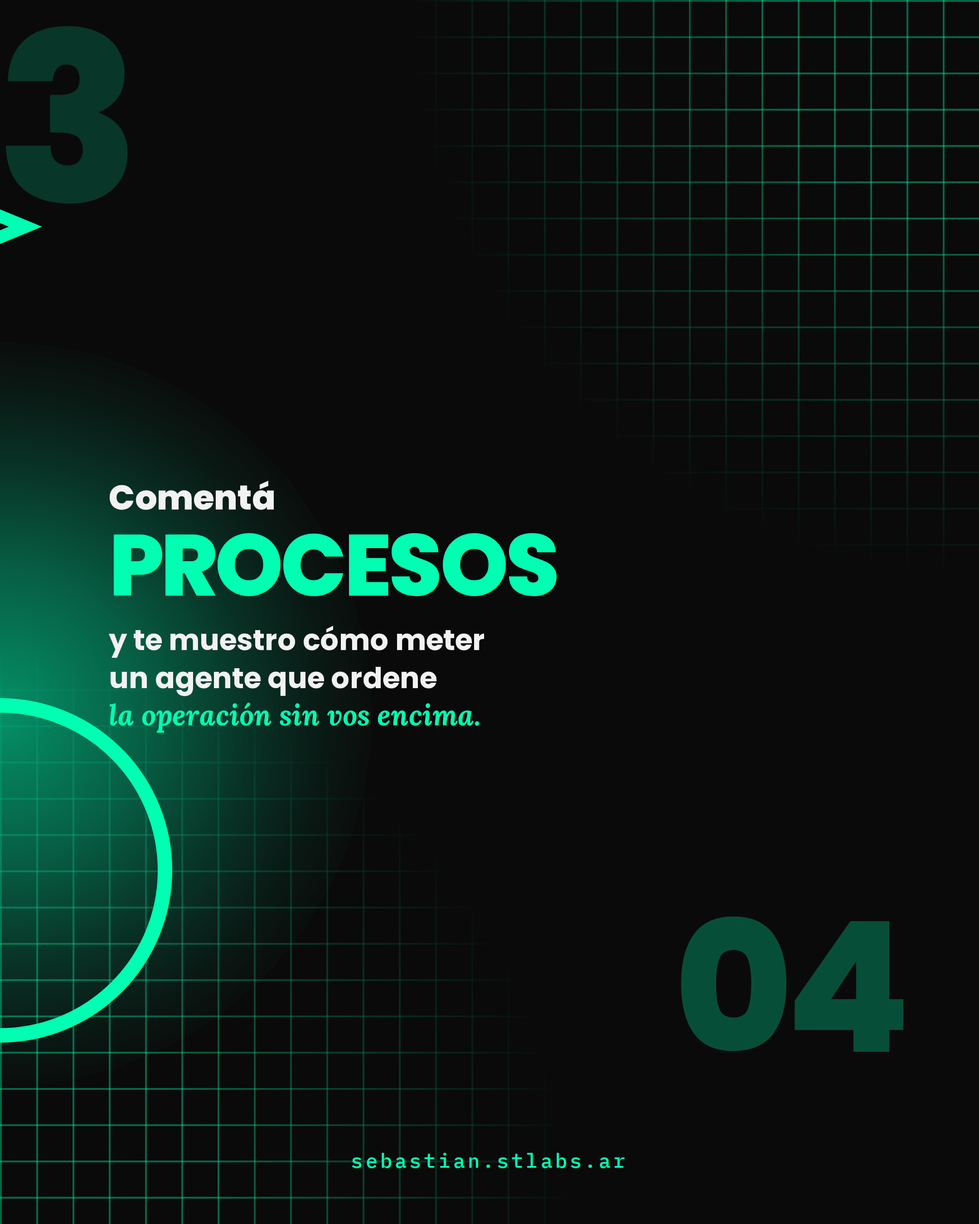
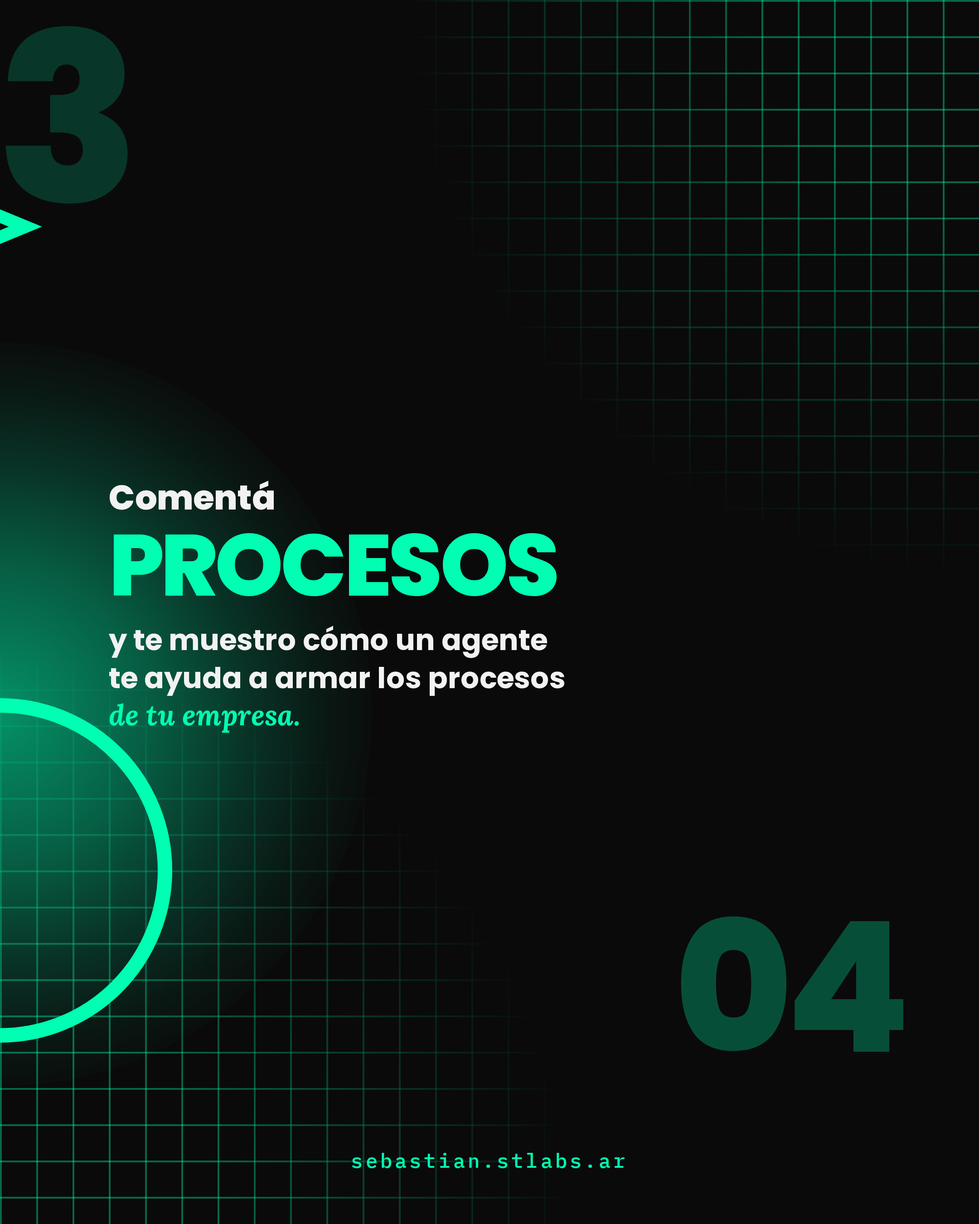
Agente = armar procesos: copy, skill y regla bloqueados
Reescribe el carrusel sin pitch de leads; fija el mensaje en la
skill STLabs, identidad, captions y regla de memoria.

Changed region(s): [[0.0931, 0.4978, 0.5894, 0.5911]]

diff --git a/builds/2026-08-16-frases-continuidad/carrusel-standalone.html b/builds/2026-08-16-frases-continuidad/carrusel-standalone.html
@@ -152,7 +152,7 @@ html, body { background:#000; }
   font-size:32px; line-height:1.3; color:#F2F2F2; max-width:720px;
 }
 </style></head>
-<body><div class="sheet"><section class="slide" data-id="01"><div class="tex"></div><div class="stain stain-out stain-hi" aria-hidden="true"></div><div class="seam-num seam-out seam-top" aria-hidden="true">01</div><div class="geo geo-circle geo-out" aria-hidden="true"></div><div class="geo geo-arrow geo-arrow-out" aria-hidden="true"><svg viewBox="0 0 200 80" width="200" height="80"><path d="M8 40 H130 M100 12 L168 40 L100 68" fill="none" stroke="#00FFB2" stroke-width="14" stroke-linecap="square" stroke-linejoin="miter"/></svg></div><div class="mid"><p class="kicker">Para dueños que no dan abasto</p><h1 class="display">TU EMPRESA<br>NECESITA<br>UN <span class="ac">AGENTE</span></h1><p class="punch">No otra persona.<br><span class="ac xl">Un sistema de procesos.</span></p></div><div class="firma">sebastian.stlabs.ar</div><div class="nav-arrow" aria-hidden="true"><svg viewBox="0 0 40 24" width="34" height="20"><path d="M2 12 H30 M22 4 L34 12 L22 20" fill="none" stroke="#00FFB2" stroke-width="2.4" stroke-linecap="round" stroke-linejoin="round"/></svg></div></section><section class="slide" data-id="02"><div class="tex"></div><div class="stain stain-in stain-hi" aria-hidden="true"></div><div class="stain stain-out stain-lo" aria-hidden="true"></div><div class="seam-num seam-in seam-top" aria-hidden="true">01</div>
-<div class="seam-num seam-out seam-bot" aria-hidden="true">02</div><div class="geo geo-circle geo-in" aria-hidden="true"></div><div class="geo geo-arrow geo-arrow-in" aria-hidden="true"><svg viewBox="0 0 200 80" width="200" height="80"><path d="M-40 40 H90 M60 12 L128 40 L60 68" fill="none" stroke="#00FFB2" stroke-width="14" stroke-linecap="square" stroke-linejoin="miter"/></svg></div><div class="geo geo-ring geo-out-mid" aria-hidden="true"></div><div class="geo geo-bar geo-bar-out" aria-hidden="true"></div><div class="mid mid-r"><h1 class="display">CORRE<br><span class="sm">CADA</span><br><span class="ac">PROCESO</span></h1><p class="punch soft">Detecta. Ejecuta. Escala.<br><span class="ac">Mientras vos liderás.</span></p></div><div class="firma">sebastian.stlabs.ar</div><div class="nav-arrow" aria-hidden="true"><svg viewBox="0 0 40 24" width="34" height="20"><path d="M2 12 H30 M22 4 L34 12 L22 20" fill="none" stroke="#00FFB2" stroke-width="2.4" stroke-linecap="round" stroke-linejoin="round"/></svg></div></section><section class="slide" data-id="03"><div class="tex"></div><div class="stain stain-in stain-lo" aria-hidden="true"></div><div class="stain stain-out stain-mid" aria-hidden="true"></div><div class="seam-num seam-in seam-bot" aria-hidden="true">02</div>
-<div class="seam-num seam-out seam-top" aria-hidden="true">03</div><div class="geo geo-ring geo-in-mid" aria-hidden="true"></div><div class="geo geo-bar geo-bar-in" aria-hidden="true"></div><div class="geo geo-circle geo-out geo-lo" aria-hidden="true"></div><div class="mid"><h1 class="display">SIN VOS<br><span class="sm">ENCIMA</span><br><span class="ac">24/7</span></h1><p class="punch">Un agente que corre<br>tus procesos.</p><p class="sub">Operación, seguimiento y CRM:<br>un solo flujo que no se traba.</p></div><div class="firma">sebastian.stlabs.ar</div><div class="nav-arrow" aria-hidden="true"><svg viewBox="0 0 40 24" width="34" height="20"><path d="M2 12 H30 M22 4 L34 12 L22 20" fill="none" stroke="#00FFB2" stroke-width="2.4" stroke-linecap="round" stroke-linejoin="round"/></svg></div></section><section class="slide" data-id="04"><div class="tex"></div><div class="stain stain-in stain-mid" aria-hidden="true"></div><div class="seam-num seam-in seam-top" aria-hidden="true">03</div>
-<div class="seam-num seam-solo seam-bot" aria-hidden="true">04</div><div class="geo geo-circle geo-in geo-lo" aria-hidden="true"></div><div class="geo geo-arrow geo-arrow-in" aria-hidden="true"><svg viewBox="0 0 200 80" width="200" height="80"><path d="M-40 40 H90 M60 12 L128 40 L60 68" fill="none" stroke="#00FFB2" stroke-width="14" stroke-linecap="square" stroke-linejoin="miter"/></svg></div><div class="mid mid-cta"><p class="cta-pre">Comentá</p><h1 class="cta-kw">PROCESOS</h1><p class="cta-mid">y te muestro cómo meter<br>un agente que ordene<br><span class="ac">la operación sin vos encima.</span></p></div><div class="firma">sebastian.stlabs.ar</div></section></div></body></html>
+<body><div class="sheet"><section class="slide" data-id="01"><div class="tex"></div><div class="stain stain-out stain-hi" aria-hidden="true"></div><div class="seam-num seam-out seam-top" aria-hidden="true">01</div><div class="geo geo-circle geo-out" aria-hidden="true"></div><div class="geo geo-arrow geo-arrow-out" aria-hidden="true"><svg viewBox="0 0 200 80" width="200" height="80"><path d="M8 40 H130 M100 12 L168 40 L100 68" fill="none" stroke="#00FFB2" stroke-width="14" stroke-linecap="square" stroke-linejoin="miter"/></svg></div><div class="mid"><p class="kicker">Para dueños que no dan abasto</p><h1 class="display">TU EMPRESA<br>NECESITA<br>UN <span class="ac">AGENTE</span></h1><p class="punch">No otra persona.<br><span class="ac xl">Uno que te ayude a armar procesos.</span></p></div><div class="firma">sebastian.stlabs.ar</div><div class="nav-arrow" aria-hidden="true"><svg viewBox="0 0 40 24" width="34" height="20"><path d="M2 12 H30 M22 4 L34 12 L22 20" fill="none" stroke="#00FFB2" stroke-width="2.4" stroke-linecap="round" stroke-linejoin="round"/></svg></div></section><section class="slide" data-id="02"><div class="tex"></div><div class="stain stain-in stain-hi" aria-hidden="true"></div><div class="stain stain-out stain-lo" aria-hidden="true"></div><div class="seam-num seam-in seam-top" aria-hidden="true">01</div>
+<div class="seam-num seam-out seam-bot" aria-hidden="true">02</div><div class="geo geo-circle geo-in" aria-hidden="true"></div><div class="geo geo-arrow geo-arrow-in" aria-hidden="true"><svg viewBox="0 0 200 80" width="200" height="80"><path d="M-40 40 H90 M60 12 L128 40 L60 68" fill="none" stroke="#00FFB2" stroke-width="14" stroke-linecap="square" stroke-linejoin="miter"/></svg></div><div class="geo geo-ring geo-out-mid" aria-hidden="true"></div><div class="geo geo-bar geo-bar-out" aria-hidden="true"></div><div class="mid mid-r"><h1 class="display">ARMÁ<br><span class="sm">PROCESOS</span><br><span class="ac">QUE ANDEN</span></h1><p class="punch soft">Diseñá. Documentá. Delegá.<br><span class="ac">El agente te guía paso a paso.</span></p></div><div class="firma">sebastian.stlabs.ar</div><div class="nav-arrow" aria-hidden="true"><svg viewBox="0 0 40 24" width="34" height="20"><path d="M2 12 H30 M22 4 L34 12 L22 20" fill="none" stroke="#00FFB2" stroke-width="2.4" stroke-linecap="round" stroke-linejoin="round"/></svg></div></section><section class="slide" data-id="03"><div class="tex"></div><div class="stain stain-in stain-lo" aria-hidden="true"></div><div class="stain stain-out stain-mid" aria-hidden="true"></div><div class="seam-num seam-in seam-bot" aria-hidden="true">02</div>
+<div class="seam-num seam-out seam-top" aria-hidden="true">03</div><div class="geo geo-ring geo-in-mid" aria-hidden="true"></div><div class="geo geo-bar geo-bar-in" aria-hidden="true"></div><div class="geo geo-circle geo-out geo-lo" aria-hidden="true"></div><div class="mid"><h1 class="display">DEL CAOS<br><span class="sm">A UN</span><br><span class="ac">SISTEMA</span></h1><p class="punch">Procesos claros.<br>Responsables claros.</p><p class="sub">El agente te ayuda a armarlos<br>para que la empresa no dependa de vos.</p></div><div class="firma">sebastian.stlabs.ar</div><div class="nav-arrow" aria-hidden="true"><svg viewBox="0 0 40 24" width="34" height="20"><path d="M2 12 H30 M22 4 L34 12 L22 20" fill="none" stroke="#00FFB2" stroke-width="2.4" stroke-linecap="round" stroke-linejoin="round"/></svg></div></section><section class="slide" data-id="04"><div class="tex"></div><div class="stain stain-in stain-mid" aria-hidden="true"></div><div class="seam-num seam-in seam-top" aria-hidden="true">03</div>
+<div class="seam-num seam-solo seam-bot" aria-hidden="true">04</div><div class="geo geo-circle geo-in geo-lo" aria-hidden="true"></div><div class="geo geo-arrow geo-arrow-in" aria-hidden="true"><svg viewBox="0 0 200 80" width="200" height="80"><path d="M-40 40 H90 M60 12 L128 40 L60 68" fill="none" stroke="#00FFB2" stroke-width="14" stroke-linecap="square" stroke-linejoin="miter"/></svg></div><div class="mid mid-cta"><p class="cta-pre">Comentá</p><h1 class="cta-kw">PROCESOS</h1><p class="cta-mid">y te muestro cómo un agente<br>te ayuda a armar los procesos<br><span class="ac">de tu empresa.</span></p></div><div class="firma">sebastian.stlabs.ar</div></section></div></body></html>

diff --git a/resultados/2026-08-16-frases-continuidad/carrusel-standalone.html b/resultados/2026-08-16-frases-continuidad/carrusel-standalone.html
@@ -152,7 +152,7 @@ html, body { background:#000; }
   font-size:32px; line-height:1.3; color:#F2F2F2; max-width:720px;
 }
 </style></head>
-<body><div class="sheet"><section class="slide" data-id="01"><div class="tex"></div><div class="stain stain-out stain-hi" aria-hidden="true"></div><div class="seam-num seam-out seam-top" aria-hidden="true">01</div><div class="geo geo-circle geo-out" aria-hidden="true"></div><div class="geo geo-arrow geo-arrow-out" aria-hidden="true"><svg viewBox="0 0 200 80" width="200" height="80"><path d="M8 40 H130 M100 12 L168 40 L100 68" fill="none" stroke="#00FFB2" stroke-width="14" stroke-linecap="square" stroke-linejoin="miter"/></svg></div><div class="mid"><p class="kicker">Para dueños que no dan abasto</p><h1 class="display">TU EMPRESA<br>NECESITA<br>UN <span class="ac">AGENTE</span></h1><p class="punch">No otra persona.<br><span class="ac xl">Un sistema de procesos.</span></p></div><div class="firma">sebastian.stlabs.ar</div><div class="nav-arrow" aria-hidden="true"><svg viewBox="0 0 40 24" width="34" height="20"><path d="M2 12 H30 M22 4 L34 12 L22 20" fill="none" stroke="#00FFB2" stroke-width="2.4" stroke-linecap="round" stroke-linejoin="round"/></svg></div></section><section class="slide" data-id="02"><div class="tex"></div><div class="stain stain-in stain-hi" aria-hidden="true"></div><div class="stain stain-out stain-lo" aria-hidden="true"></div><div class="seam-num seam-in seam-top" aria-hidden="true">01</div>
-<div class="seam-num seam-out seam-bot" aria-hidden="true">02</div><div class="geo geo-circle geo-in" aria-hidden="true"></div><div class="geo geo-arrow geo-arrow-in" aria-hidden="true"><svg viewBox="0 0 200 80" width="200" height="80"><path d="M-40 40 H90 M60 12 L128 40 L60 68" fill="none" stroke="#00FFB2" stroke-width="14" stroke-linecap="square" stroke-linejoin="miter"/></svg></div><div class="geo geo-ring geo-out-mid" aria-hidden="true"></div><div class="geo geo-bar geo-bar-out" aria-hidden="true"></div><div class="mid mid-r"><h1 class="display">CORRE<br><span class="sm">CADA</span><br><span class="ac">PROCESO</span></h1><p class="punch soft">Detecta. Ejecuta. Escala.<br><span class="ac">Mientras vos liderás.</span></p></div><div class="firma">sebastian.stlabs.ar</div><div class="nav-arrow" aria-hidden="true"><svg viewBox="0 0 40 24" width="34" height="20"><path d="M2 12 H30 M22 4 L34 12 L22 20" fill="none" stroke="#00FFB2" stroke-width="2.4" stroke-linecap="round" stroke-linejoin="round"/></svg></div></section><section class="slide" data-id="03"><div class="tex"></div><div class="stain stain-in stain-lo" aria-hidden="true"></div><div class="stain stain-out stain-mid" aria-hidden="true"></div><div class="seam-num seam-in seam-bot" aria-hidden="true">02</div>
-<div class="seam-num seam-out seam-top" aria-hidden="true">03</div><div class="geo geo-ring geo-in-mid" aria-hidden="true"></div><div class="geo geo-bar geo-bar-in" aria-hidden="true"></div><div class="geo geo-circle geo-out geo-lo" aria-hidden="true"></div><div class="mid"><h1 class="display">SIN VOS<br><span class="sm">ENCIMA</span><br><span class="ac">24/7</span></h1><p class="punch">Un agente que corre<br>tus procesos.</p><p class="sub">Operación, seguimiento y CRM:<br>un solo flujo que no se traba.</p></div><div class="firma">sebastian.stlabs.ar</div><div class="nav-arrow" aria-hidden="true"><svg viewBox="0 0 40 24" width="34" height="20"><path d="M2 12 H30 M22 4 L34 12 L22 20" fill="none" stroke="#00FFB2" stroke-width="2.4" stroke-linecap="round" stroke-linejoin="round"/></svg></div></section><section class="slide" data-id="04"><div class="tex"></div><div class="stain stain-in stain-mid" aria-hidden="true"></div><div class="seam-num seam-in seam-top" aria-hidden="true">03</div>
-<div class="seam-num seam-solo seam-bot" aria-hidden="true">04</div><div class="geo geo-circle geo-in geo-lo" aria-hidden="true"></div><div class="geo geo-arrow geo-arrow-in" aria-hidden="true"><svg viewBox="0 0 200 80" width="200" height="80"><path d="M-40 40 H90 M60 12 L128 40 L60 68" fill="none" stroke="#00FFB2" stroke-width="14" stroke-linecap="square" stroke-linejoin="miter"/></svg></div><div class="mid mid-cta"><p class="cta-pre">Comentá</p><h1 class="cta-kw">PROCESOS</h1><p class="cta-mid">y te muestro cómo meter<br>un agente que ordene<br><span class="ac">la operación sin vos encima.</span></p></div><div class="firma">sebastian.stlabs.ar</div></section></div></body></html>
+<body><div class="sheet"><section class="slide" data-id="01"><div class="tex"></div><div class="stain stain-out stain-hi" aria-hidden="true"></div><div class="seam-num seam-out seam-top" aria-hidden="true">01</div><div class="geo geo-circle geo-out" aria-hidden="true"></div><div class="geo geo-arrow geo-arrow-out" aria-hidden="true"><svg viewBox="0 0 200 80" width="200" height="80"><path d="M8 40 H130 M100 12 L168 40 L100 68" fill="none" stroke="#00FFB2" stroke-width="14" stroke-linecap="square" stroke-linejoin="miter"/></svg></div><div class="mid"><p class="kicker">Para dueños que no dan abasto</p><h1 class="display">TU EMPRESA<br>NECESITA<br>UN <span class="ac">AGENTE</span></h1><p class="punch">No otra persona.<br><span class="ac xl">Uno que te ayude a armar procesos.</span></p></div><div class="firma">sebastian.stlabs.ar</div><div class="nav-arrow" aria-hidden="true"><svg viewBox="0 0 40 24" width="34" height="20"><path d="M2 12 H30 M22 4 L34 12 L22 20" fill="none" stroke="#00FFB2" stroke-width="2.4" stroke-linecap="round" stroke-linejoin="round"/></svg></div></section><section class="slide" data-id="02"><div class="tex"></div><div class="stain stain-in stain-hi" aria-hidden="true"></div><div class="stain stain-out stain-lo" aria-hidden="true"></div><div class="seam-num seam-in seam-top" aria-hidden="true">01</div>
+<div class="seam-num seam-out seam-bot" aria-hidden="true">02</div><div class="geo geo-circle geo-in" aria-hidden="true"></div><div class="geo geo-arrow geo-arrow-in" aria-hidden="true"><svg viewBox="0 0 200 80" width="200" height="80"><path d="M-40 40 H90 M60 12 L128 40 L60 68" fill="none" stroke="#00FFB2" stroke-width="14" stroke-linecap="square" stroke-linejoin="miter"/></svg></div><div class="geo geo-ring geo-out-mid" aria-hidden="true"></div><div class="geo geo-bar geo-bar-out" aria-hidden="true"></div><div class="mid mid-r"><h1 class="display">ARMÁ<br><span class="sm">PROCESOS</span><br><span class="ac">QUE ANDEN</span></h1><p class="punch soft">Diseñá. Documentá. Delegá.<br><span class="ac">El agente te guía paso a paso.</span></p></div><div class="firma">sebastian.stlabs.ar</div><div class="nav-arrow" aria-hidden="true"><svg viewBox="0 0 40 24" width="34" height="20"><path d="M2 12 H30 M22 4 L34 12 L22 20" fill="none" stroke="#00FFB2" stroke-width="2.4" stroke-linecap="round" stroke-linejoin="round"/></svg></div></section><section class="slide" data-id="03"><div class="tex"></div><div class="stain stain-in stain-lo" aria-hidden="true"></div><div class="stain stain-out stain-mid" aria-hidden="true"></div><div class="seam-num seam-in seam-bot" aria-hidden="true">02</div>
+<div class="seam-num seam-out seam-top" aria-hidden="true">03</div><div class="geo geo-ring geo-in-mid" aria-hidden="true"></div><div class="geo geo-bar geo-bar-in" aria-hidden="true"></div><div class="geo geo-circle geo-out geo-lo" aria-hidden="true"></div><div class="mid"><h1 class="display">DEL CAOS<br><span class="sm">A UN</span><br><span class="ac">SISTEMA</span></h1><p class="punch">Procesos claros.<br>Responsables claros.</p><p class="sub">El agente te ayuda a armarlos<br>para que la empresa no dependa de vos.</p></div><div class="firma">sebastian.stlabs.ar</div><div class="nav-arrow" aria-hidden="true"><svg viewBox="0 0 40 24" width="34" height="20"><path d="M2 12 H30 M22 4 L34 12 L22 20" fill="none" stroke="#00FFB2" stroke-width="2.4" stroke-linecap="round" stroke-linejoin="round"/></svg></div></section><section class="slide" data-id="04"><div class="tex"></div><div class="stain stain-in stain-mid" aria-hidden="true"></div><div class="seam-num seam-in seam-top" aria-hidden="true">03</div>
+<div class="seam-num seam-solo seam-bot" aria-hidden="true">04</div><div class="geo geo-circle geo-in geo-lo" aria-hidden="true"></div><div class="geo geo-arrow geo-arrow-in" aria-hidden="true"><svg viewBox="0 0 200 80" width="200" height="80"><path d="M-40 40 H90 M60 12 L128 40 L60 68" fill="none" stroke="#00FFB2" stroke-width="14" stroke-linecap="square" stroke-linejoin="miter"/></svg></div><div class="mid mid-cta"><p class="cta-pre">Comentá</p><h1 class="cta-kw">PROCESOS</h1><p class="cta-mid">y te muestro cómo un agente<br>te ayuda a armar los procesos<br><span class="ac">de tu empresa.</span></p></div><div class="firma">sebastian.stlabs.ar</div></section></div></body></html>

diff --git a/resultados/2026-08-16-frases-continuidad/carrusel.html b/resultados/2026-08-16-frases-continuidad/carrusel.html
@@ -152,7 +152,7 @@ html, body { background:#000; }
   font-size:32px; line-height:1.3; color:#F2F2F2; max-width:720px;
 }
 </style></head>
-<body><div class="sheet"><section class="slide" data-id="01"><div class="tex"></div><div class="stain stain-out stain-hi" aria-hidden="true"></div><div class="seam-num seam-out seam-top" aria-hidden="true">01</div><div class="geo geo-circle geo-out" aria-hidden="true"></div><div class="geo geo-arrow geo-arrow-out" aria-hidden="true"><svg viewBox="0 0 200 80" width="200" height="80"><path d="M8 40 H130 M100 12 L168 40 L100 68" fill="none" stroke="#00FFB2" stroke-width="14" stroke-linecap="square" stroke-linejoin="miter"/></svg></div><div class="mid"><p class="kicker">Para dueños que no dan abasto</p><h1 class="display">TU EMPRESA<br>NECESITA<br>UN <span class="ac">AGENTE</span></h1><p class="punch">No otra persona.<br><span class="ac xl">Un sistema de procesos.</span></p></div><div class="firma">sebastian.stlabs.ar</div><div class="nav-arrow" aria-hidden="true"><svg viewBox="0 0 40 24" width="34" height="20"><path d="M2 12 H30 M22 4 L34 12 L22 20" fill="none" stroke="#00FFB2" stroke-width="2.4" stroke-linecap="round" stroke-linejoin="round"/></svg></div></section><section class="slide" data-id="02"><div class="tex"></div><div class="stain stain-in stain-hi" aria-hidden="true"></div><div class="stain stain-out stain-lo" aria-hidden="true"></div><div class="seam-num seam-in seam-top" aria-hidden="true">01</div>
-<div class="seam-num seam-out seam-bot" aria-hidden="true">02</div><div class="geo geo-circle geo-in" aria-hidden="true"></div><div class="geo geo-arrow geo-arrow-in" aria-hidden="true"><svg viewBox="0 0 200 80" width="200" height="80"><path d="M-40 40 H90 M60 12 L128 40 L60 68" fill="none" stroke="#00FFB2" stroke-width="14" stroke-linecap="square" stroke-linejoin="miter"/></svg></div><div class="geo geo-ring geo-out-mid" aria-hidden="true"></div><div class="geo geo-bar geo-bar-out" aria-hidden="true"></div><div class="mid mid-r"><h1 class="display">CORRE<br><span class="sm">CADA</span><br><span class="ac">PROCESO</span></h1><p class="punch soft">Detecta. Ejecuta. Escala.<br><span class="ac">Mientras vos liderás.</span></p></div><div class="firma">sebastian.stlabs.ar</div><div class="nav-arrow" aria-hidden="true"><svg viewBox="0 0 40 24" width="34" height="20"><path d="M2 12 H30 M22 4 L34 12 L22 20" fill="none" stroke="#00FFB2" stroke-width="2.4" stroke-linecap="round" stroke-linejoin="round"/></svg></div></section><section class="slide" data-id="03"><div class="tex"></div><div class="stain stain-in stain-lo" aria-hidden="true"></div><div class="stain stain-out stain-mid" aria-hidden="true"></div><div class="seam-num seam-in seam-bot" aria-hidden="true">02</div>
-<div class="seam-num seam-out seam-top" aria-hidden="true">03</div><div class="geo geo-ring geo-in-mid" aria-hidden="true"></div><div class="geo geo-bar geo-bar-in" aria-hidden="true"></div><div class="geo geo-circle geo-out geo-lo" aria-hidden="true"></div><div class="mid"><h1 class="display">SIN VOS<br><span class="sm">ENCIMA</span><br><span class="ac">24/7</span></h1><p class="punch">Un agente que corre<br>tus procesos.</p><p class="sub">Operación, seguimiento y CRM:<br>un solo flujo que no se traba.</p></div><div class="firma">sebastian.stlabs.ar</div><div class="nav-arrow" aria-hidden="true"><svg viewBox="0 0 40 24" width="34" height="20"><path d="M2 12 H30 M22 4 L34 12 L22 20" fill="none" stroke="#00FFB2" stroke-width="2.4" stroke-linecap="round" stroke-linejoin="round"/></svg></div></section><section class="slide" data-id="04"><div class="tex"></div><div class="stain stain-in stain-mid" aria-hidden="true"></div><div class="seam-num seam-in seam-top" aria-hidden="true">03</div>
-<div class="seam-num seam-solo seam-bot" aria-hidden="true">04</div><div class="geo geo-circle geo-in geo-lo" aria-hidden="true"></div><div class="geo geo-arrow geo-arrow-in" aria-hidden="true"><svg viewBox="0 0 200 80" width="200" height="80"><path d="M-40 40 H90 M60 12 L128 40 L60 68" fill="none" stroke="#00FFB2" stroke-width="14" stroke-linecap="square" stroke-linejoin="miter"/></svg></div><div class="mid mid-cta"><p class="cta-pre">Comentá</p><h1 class="cta-kw">PROCESOS</h1><p class="cta-mid">y te muestro cómo meter<br>un agente que ordene<br><span class="ac">la operación sin vos encima.</span></p></div><div class="firma">sebastian.stlabs.ar</div></section></div></body></html>
+<body><div class="sheet"><section class="slide" data-id="01"><div class="tex"></div><div class="stain stain-out stain-hi" aria-hidden="true"></div><div class="seam-num seam-out seam-top" aria-hidden="true">01</div><div class="geo geo-circle geo-out" aria-hidden="true"></div><div class="geo geo-arrow geo-arrow-out" aria-hidden="true"><svg viewBox="0 0 200 80" width="200" height="80"><path d="M8 40 H130 M100 12 L168 40 L100 68" fill="none" stroke="#00FFB2" stroke-width="14" stroke-linecap="square" stroke-linejoin="miter"/></svg></div><div class="mid"><p class="kicker">Para dueños que no dan abasto</p><h1 class="display">TU EMPRESA<br>NECESITA<br>UN <span class="ac">AGENTE</span></h1><p class="punch">No otra persona.<br><span class="ac xl">Uno que te ayude a armar procesos.</span></p></div><div class="firma">sebastian.stlabs.ar</div><div class="nav-arrow" aria-hidden="true"><svg viewBox="0 0 40 24" width="34" height="20"><path d="M2 12 H30 M22 4 L34 12 L22 20" fill="none" stroke="#00FFB2" stroke-width="2.4" stroke-linecap="round" stroke-linejoin="round"/></svg></div></section><section class="slide" data-id="02"><div class="tex"></div><div class="stain stain-in stain-hi" aria-hidden="true"></div><div class="stain stain-out stain-lo" aria-hidden="true"></div><div class="seam-num seam-in seam-top" aria-hidden="true">01</div>
+<div class="seam-num seam-out seam-bot" aria-hidden="true">02</div><div class="geo geo-circle geo-in" aria-hidden="true"></div><div class="geo geo-arrow geo-arrow-in" aria-hidden="true"><svg viewBox="0 0 200 80" width="200" height="80"><path d="M-40 40 H90 M60 12 L128 40 L60 68" fill="none" stroke="#00FFB2" stroke-width="14" stroke-linecap="square" stroke-linejoin="miter"/></svg></div><div class="geo geo-ring geo-out-mid" aria-hidden="true"></div><div class="geo geo-bar geo-bar-out" aria-hidden="true"></div><div class="mid mid-r"><h1 class="display">ARMÁ<br><span class="sm">PROCESOS</span><br><span class="ac">QUE ANDEN</span></h1><p class="punch soft">Diseñá. Documentá. Delegá.<br><span class="ac">El agente te guía paso a paso.</span></p></div><div class="firma">sebastian.stlabs.ar</div><div class="nav-arrow" aria-hidden="true"><svg viewBox="0 0 40 24" width="34" height="20"><path d="M2 12 H30 M22 4 L34 12 L22 20" fill="none" stroke="#00FFB2" stroke-width="2.4" stroke-linecap="round" stroke-linejoin="round"/></svg></div></section><section class="slide" data-id="03"><div class="tex"></div><div class="stain stain-in stain-lo" aria-hidden="true"></div><div class="stain stain-out stain-mid" aria-hidden="true"></div><div class="seam-num seam-in seam-bot" aria-hidden="true">02</div>
+<div class="seam-num seam-out seam-top" aria-hidden="true">03</div><div class="geo geo-ring geo-in-mid" aria-hidden="true"></div><div class="geo geo-bar geo-bar-in" aria-hidden="true"></div><div class="geo geo-circle geo-out geo-lo" aria-hidden="true"></div><div class="mid"><h1 class="display">DEL CAOS<br><span class="sm">A UN</span><br><span class="ac">SISTEMA</span></h1><p class="punch">Procesos claros.<br>Responsables claros.</p><p class="sub">El agente te ayuda a armarlos<br>para que la empresa no dependa de vos.</p></div><div class="firma">sebastian.stlabs.ar</div><div class="nav-arrow" aria-hidden="true"><svg viewBox="0 0 40 24" width="34" height="20"><path d="M2 12 H30 M22 4 L34 12 L22 20" fill="none" stroke="#00FFB2" stroke-width="2.4" stroke-linecap="round" stroke-linejoin="round"/></svg></div></section><section class="slide" data-id="04"><div class="tex"></div><div class="stain stain-in stain-mid" aria-hidden="true"></div><div class="seam-num seam-in seam-top" aria-hidden="true">03</div>
+<div class="seam-num seam-solo seam-bot" aria-hidden="true">04</div><div class="geo geo-circle geo-in geo-lo" aria-hidden="true"></div><div class="geo geo-arrow geo-arrow-in" aria-hidden="true"><svg viewBox="0 0 200 80" width="200" height="80"><path d="M-40 40 H90 M60 12 L128 40 L60 68" fill="none" stroke="#00FFB2" stroke-width="14" stroke-linecap="square" stroke-linejoin="miter"/></svg></div><div class="mid mid-cta"><p class="cta-pre">Comentá</p><h1 class="cta-kw">PROCESOS</h1><p class="cta-mid">y te muestro cómo un agente<br>te ayuda a armar los procesos<br><span class="ac">de tu empresa.</span></p></div><div class="firma">sebastian.stlabs.ar</div></section></div></body></html>

diff --git a/builds/2026-08-16-frases-continuidad/generate.py b/builds/2026-08-16-frases-continuidad/generate.py
@@ -103,7 +103,7 @@ def slide_01():
         + '<div class="mid">'
         '<p class="kicker">Para dueños que no dan abasto</p>'
         '<h1 class="display">TU EMPRESA<br>NECESITA<br>UN <span class="ac">AGENTE</span></h1>'
-        '<p class="punch">No otra persona.<br><span class="ac xl">Un sistema de procesos.</span></p>'
+        '<p class="punch">No otra persona.<br><span class="ac xl">Uno que te ayude a armar procesos.</span></p>'
         '</div>' + foot() + '</section>'
     )
 
@@ -114,9 +114,9 @@ def slide_02():
         + stain_in('hi') + stain_out('lo')
         + seam_nums(2) + geo_circle_in() + geo_arrow_in() + geo_ring_out() + geo_bar_out()
         + '<div class="mid mid-r">'
-        '<h1 class="display">CORRE<br><span class="sm">CADA</span><br><span class="ac">PROCESO</span></h1>'
-        '<p class="punch soft">Detecta. Ejecuta. Escala.<br>'
-        '<span class="ac">Mientras vos liderás.</span></p>'
+        '<h1 class="display">ARMÁ<br><span class="sm">PROCESOS</span><br><span class="ac">QUE ANDEN</span></h1>'
+        '<p class="punch soft">Diseñá. Documentá. Delegá.<br>'
+        '<span class="ac">El agente te guía paso a paso.</span></p>'
         '</div>' + foot() + '</section>'
     )
 
@@ -128,9 +128,9 @@ def slide_03():
         + seam_nums(3) + geo_ring_in() + geo_bar_in()
         + '<div class="geo geo-circle geo-out geo-lo" aria-hidden="true"></div>'
         + '<div class="mid">'
-        '<h1 class="display">SIN VOS<br><span class="sm">ENCIMA</span><br><span class="ac">24/7</span></h1>'
-        '<p class="punch">Un agente que corre<br>tus procesos.</p>'
-        '<p class="sub">Operación, seguimiento y CRM:<br>un solo flujo que no se traba.</p>'
+        '<h1 class="display">DEL CAOS<br><span class="sm">A UN</span><br><span class="ac">SISTEMA</span></h1>'
+        '<p class="punch">Procesos claros.<br>Responsables claros.</p>'
+        '<p class="sub">El agente te ayuda a armarlos<br>para que la empresa no dependa de vos.</p>'
         '</div>' + foot() + '</section>'
     )
 
@@ -145,8 +145,8 @@ def slide_04():
         + '<div class="mid mid-cta">'
         '<p class="cta-pre">Comentá</p>'
         '<h1 class="cta-kw">PROCESOS</h1>'
-        '<p class="cta-mid">y te muestro cómo meter<br>un agente que ordene<br>'
-        '<span class="ac">la operación sin vos encima.</span></p>'
+        '<p class="cta-mid">y te muestro cómo un agente<br>te ayuda a armar los procesos<br>'
+        '<span class="ac">de tu empresa.</span></p>'
         '</div>' + foot(arrow=False) + '</section>'
     )
 
@@ -317,7 +317,7 @@ def main():
     )
     (B / "carrusel.html").write_text(html, encoding="utf-8")
     meta = {
-        "titulo": "Tu empresa necesita un agente de procesos",
+        "titulo": "Un agente que te ayuda a armar procesos",
         "slides": 4,
         "fondo": "piedra_roca",
         "familia_visual": "manifiesto",
@@ -326,10 +326,10 @@ def main():
         "modo": "negro",
         "id": "2026-08-16-frases-continuidad",
         "fecha": "2026-08-16",
-        "notas": "Copy de procesos (no solo leads). Círculo 03↔04 abajo para no tapar CTA.",
+        "notas": "Agente = armar procesos. Prohibido pitch de leads. Círculo CTA abajo.",
     }
     (B / "index.json").write_text(json.dumps(meta, ensure_ascii=False, indent=2), encoding="utf-8")
-    print(f"Wrote {len(slides)} slides · procesos · círculo CTA libre")
+    print(f"Wrote {len(slides)} slides · agente arma procesos")
 
 
 if __name__ == "__main__":

diff --git a/.claude/skills/carrusel-stlabs/SKILL.md b/.claude/skills/carrusel-stlabs/SKILL.md
@@ -62,6 +62,20 @@ Tabla con **cada** tipografía usada: nombre exacto · peso/estilo · rol (títu
 - Footer `sebastian.stlabs.ar` · IBM Plex Mono · verde · centrado · bottom ~70px · **en cada slide**. Nunca un @handle de Instagram.
 - Captions: plantillas en `references/06-caption-voz.md`.
 
+## Mensaje de producto — AGENTE (bloqueado)
+
+Cuando el carrusel hable de un **agente** / sistema para la empresa de Sebastián:
+
+**SÍ (eje obligatorio):** el agente **ayuda a armar procesos** — diseñar, documentar, ordenar flujos, dejar la operación clara para que no dependa del dueño.
+
+**NO (prohibido como pitch principal):**
+- leads perdidos / “no perder leads”
+- calificar leads, agendar leads, follow-up de leads
+- “responde cada lead” como promesa central
+- agente = chatbot de ventas / SDR automático
+
+Si la referencia trae ese framing de leads, **reencuadrarlo** a procesos operativos (armar, ordenar, que ande sin vos encima). Keyword típica: `PROCESOS`.
+
 ## Atajos que Yuli puede usar
 
 | Shortcut | Significado |
@@ -89,4 +103,4 @@ Tabla con **cada** tipografía usada: nombre exacto · peso/estilo · rol (títu
 
 **SÍ:** contraste fuerte · textura física distinta por carrusel · título grande y grueso con familia diversa · escala monumental · composición asimétrica · microdetalles auténticos · keyword literal en portada · foto real de Sebastián/familia · recrear/recortar las imágenes de referencia · mantener logo Claude naranja · voseo · firma en cada slide · declarar el manifiesto de fuentes con sus códigos de carga.
 
-**NO:** título en fuentes finitas (Barlow Condensed / IBM Plex Mono como título) · reubicar, redimensionar o alterar la posición de un elemento respecto del original · robots/cerebros/circuitos **inventados** (los de la referencia sí se recrean) · 3D plástico · estética SaaS genérica · simetría perfecta · glow excesivo · verde disperso o modificado · emojis · inglés · "Inteligencia Artificial" · @handle de Instagram · contador de slides del screenshot · reemplazar imágenes de referencia por texto · texto tapando texto.
+**NO:** título en fuentes finitas (Barlow Condensed / IBM Plex Mono como título) · reubicar, redimensionar o alterar la posición de un elemento respecto del original · robots/cerebros/circuitos **inventados** (los de la referencia sí se recrean) · 3D plástico · estética SaaS genérica · simetría perfecta · glow excesivo · verde disperso o modificado · emojis · inglés · "Inteligencia Artificial" · @handle de Instagram · contador de slides del screenshot · reemplazar imágenes de referencia por texto · texto tapando texto · pitch de **leads perdidos / calificar-agendar leads** cuando el tema es un agente (usar **armar procesos**).

diff --git a/.claude/skills/carrusel-stlabs/references/06-caption-voz.md b/.claude/skills/carrusel-stlabs/references/06-caption-voz.md
@@ -8,26 +8,44 @@
 3. **Procedimiento concreto** (qué se implementa, en pasos cortos — no "automatizá tu negocio" genérico).
 4. **CTA de palabra clave**: `Comentá <KEYWORD> y te mando el diagnóstico` o invitación a DM.
 
-Keywords típicas: PIPELINE · ROI · FOLLOW-UP · CHECKOUT · LEAD · BOT — **visibles y literales**, también en la portada del carrusel.
+Keywords típicas: PROCESOS · PIPELINE · ROI · CHECKOUT · BOT — **visibles y literales**, también en la portada del carrusel.
+
+## Agente / procesos (prioridad)
+
+Si el tema es un **agente** para la empresa:
+- Hablar de **armar procesos**, ordenar la operación, que no dependa del dueño.
+- **No** centrar el caption en leads perdidos, calificar leads, agendar leads ni follow-up de leads.
+- Keyword preferida: `PROCESOS`.
 
 ## Reglas
 
 - Voseo siempre: Empezá, Elegí, Dejá, Hacé, Creá, Conectá, Comentá, Deslizá, Querés.
-- Sin emojis. Sin inglés (términos técnicos establecidos como CRM, pipeline, lead se aceptan). Sin "Inteligencia Artificial" (usar "IA" si hace falta).
+- Sin emojis. Sin inglés (términos técnicos establecidos como CRM, pipeline se aceptan). Sin "Inteligencia Artificial" (usar "IA" si hace falta).
 - Máximo 5 hashtags, específicos del problema — el peso del descubrimiento va en el texto visible.
 - Copy corto y punchy. Frases de una línea. Nada de párrafos largos.
 - Cerrar siempre con la keyword-CTA o invitación a diagnóstico.
 
-## Ejemplo de esqueleto
+## Ejemplo — agente / procesos
+
+```
+Si todo pasa por vos, no tenés empresa: tenés un puesto.
+
+Un agente no es otra persona.
+Es quien te ayuda a armar los procesos para que la operación ande sola.
+
+Comentá PROCESOS y te muestro cómo.
+```
+
+## Ejemplo de esqueleto (operación / respuesta)
 
 ```
 Cada llamada perdida es un cliente que llama al siguiente de la lista.
 
-Tu negocio pierde ventas no por falta de leads, sino por tardanza.
+Tu negocio pierde ventas no por falta de demanda, sino por tardanza.
 
 Esto es lo que implementamos:
 — Cada llamada perdida dispara un mensaje en 8 segundos.
-— El lead entra al pipeline con seguimiento automático.
+— El contacto entra al flujo con seguimiento automático.
 — Vos ves todo en un solo tablero.
 
 Comentá PIPELINE y te mando el diagnóstico gratuito.

diff --git a/.claude/skills/carrusel-stlabs/references/01-identidad-stlabs.md b/.claude/skills/carrusel-stlabs/references/01-identidad-stlabs.md
@@ -42,6 +42,12 @@ Archivos TTF empaquetados en `assets/fonts/`; instalar con `assets/install_fonts
 Español argentino, **voseo**: Empezá, Elegí, Dejá, Hacé, Creá, Conectá, Comentá, Deslizá, Querés, Escogé.
 **Sin emojis. Sin inglés. Sin "Inteligencia Artificial".** Mayúsculas en display. Copy corto y punchy.
 
+### Agente = armar procesos (bloqueado)
+
+- El **agente** se vende como ayuda para **armar procesos** de la empresa (diseñar, documentar, ordenar la operación).
+- **Prohibido** como eje: leads perdidos, calificar/agendar leads, follow-up de leads, “responde cada lead”.
+- Preferir: procesos, flujos, operación, responsables, que ande sin el dueño encima.
+
 ## Firma (obligatoria en cada slide)
 
 `sebastian.stlabs.ar` · IBM Plex Mono · verde · centrado · `bottom ~70px`.
